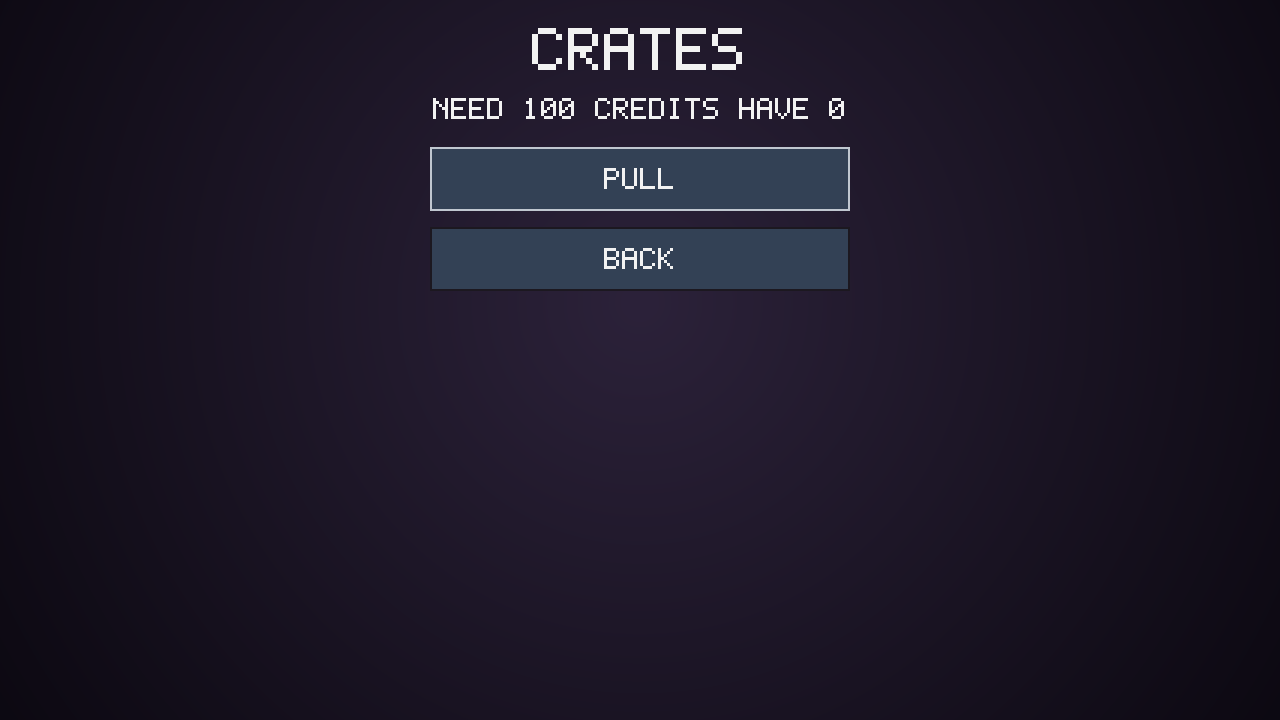
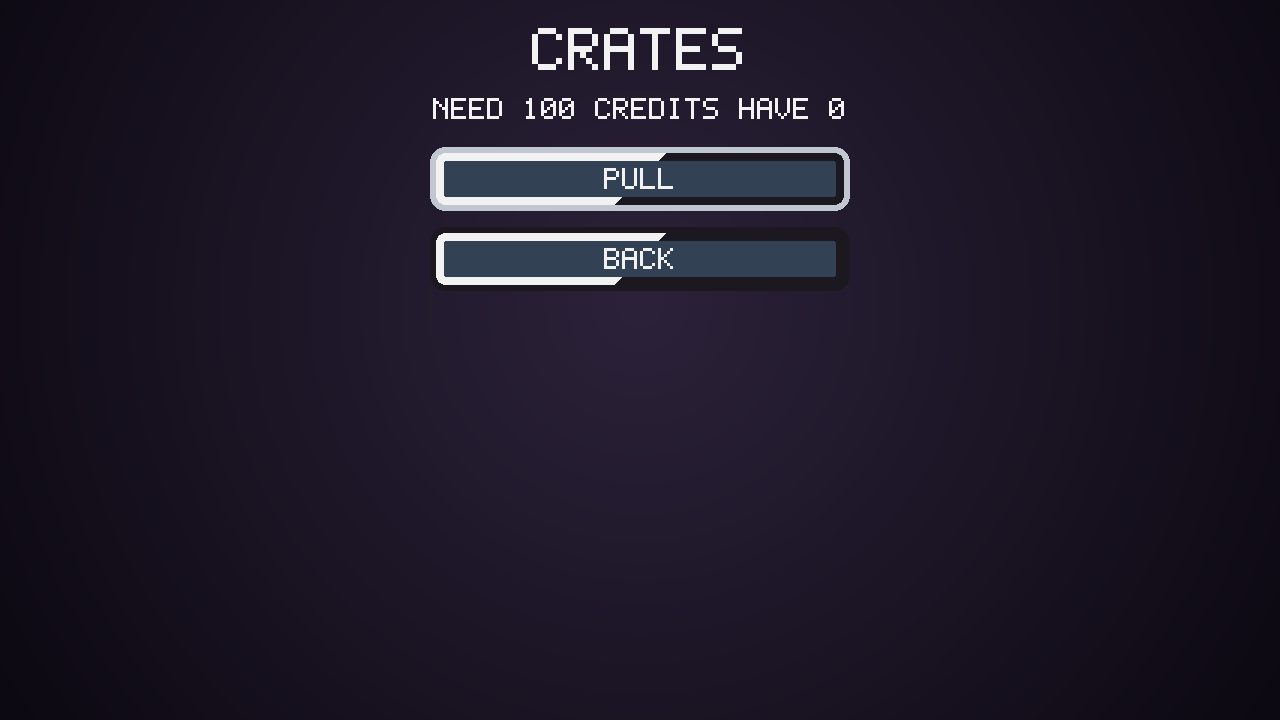
Dim the co-op pause still by the veil and bevel the crate buttons.
The still was restoring the undimmed arena before mixing the veil, so the co-op PNG matched the solo average. The veil now sits on the pause_keep backdrop. Crate pull and back use the pause bevel. A missing shard cost returns before the roll, and the stand-in does not rewrite the save.

Changed region(s): [[0.3125, 0.1833, 0.6875, 0.4278]]

diff --git a/crates/meshes/src/menu_still.rs b/crates/meshes/src/menu_still.rs
@@ -95,6 +95,29 @@ pub fn paint_menu(content: &Content, shot: &MenuShot, width: u32, height: u32) -
     (painted.rgb, painted.hits)
 }
 
+/// Co-op pause still. The live mask stays clear so the match shows through in game.
+/// The still lays `coop_pause_dim` of the veil over the solo backdrop, which is already at `pause_keep`.
+pub fn paint_coop_pause(content: &Content, focus: usize, hero_id: &str, width: u32, height: u32) -> Vec<u8> {
+    let shot = |live: bool| MenuShot::Pause { focus, hero_id: hero_id.to_string(), live };
+    let solo = paint_menu_masked(content, &shot(false), width, height);
+    let coop = paint_menu_masked(content, &shot(true), width, height);
+    let dim = content.ui.layout.coop_pause_dim.clamp(0.0, 1.0);
+    let veil = palette(content, &content.ui.colors.veil);
+    let mut rgb = Vec::with_capacity(coop.rgb.len());
+    for (index, cover) in coop.alpha.iter().copied().enumerate() {
+        if cover == 0 {
+            for channel in 0..3 {
+                let stored = solo.rgb[index * 3 + channel] as f32;
+                let mixed = stored * (1.0 - dim) + veil[channel] as f32 * dim;
+                rgb.push(mixed.round().clamp(0.0, 255.0) as u8);
+            }
+        } else {
+            rgb.extend_from_slice(&coop.rgb[index * 3..index * 3 + 3]);
+        }
+    }
+    rgb
+}
+
 /// RGB plus a real coverage mask. Co-op pause leaves the backdrop at alpha 0.
 pub fn paint_menu_masked(content: &Content, shot: &MenuShot, width: u32, height: u32) -> MenuPaint {
     let frame = Frame::new(content, width.max(8), height.max(8));
@@ -372,20 +395,26 @@ fn paint_crates(rgb: &mut [u8], content: &Content, frame: Frame, focus: usize, r
     let mut hits = Vec::new();
     let mut index = 0;
     if can_pull {
-        let hit = button(rgb, content, frame, y, &ui.copy.crates_pull, focus == index, None);
+        let hit = crate_button(rgb, content, frame, y, &ui.copy.crates_pull, focus == index);
         y = hit.y + hit.h + frame.px(ui.layout.row_gap);
         hits.push(Hit { id: "pull".into(), ..hit });
         index += 1;
     }
     if rarity.is_some() {
-        let hit = button(rgb, content, frame, y, &ui.copy.crates_open, focus == index, None);
+        let hit = crate_button(rgb, content, frame, y, &ui.copy.crates_open, focus == index);
         y = hit.y + hit.h + frame.px(ui.layout.row_gap);
         hits.push(Hit { id: "open".into(), ..hit });
         index += 1;
     }
     let _ = index;
-    hits.push(Hit { id: "back".into(), ..button(rgb, content, frame, y, &ui.copy.back, focus == hits.len(), None) });
+    hits.push(Hit { id: "back".into(), ..crate_button(rgb, content, frame, y, &ui.copy.back, focus == hits.len()) });
     hits
+}
+
+fn crate_button(rgb: &mut [u8], content: &Content, frame: Frame, y: i32, label: &str, focused: bool) -> Hit {
+    let edge = if focused { accent(content, None) } else { palette(content, &content.ui.colors.dim) };
+    let x = (frame.width as i32 - frame.px(content.ui.layout.button_width)) / 2;
+    pause_button(rgb, content, frame, x, y, label, edge)
 }
 
 fn paint_click(rgb: &mut [u8], content: &Content, frame: Frame) -> Vec<Hit> {
@@ -1262,6 +1291,83 @@ mod tests {
             720,
         );
         assert_ne!(failed, generic, "a failed pull shows its reason");
+    }
+
+    #[test]
+    fn coop_pause_is_darker_than_solo_by_the_configured_dim() {
+        let content = Content::embedded();
+        let hero = content.hero.id.clone();
+        let width = 1280u32;
+        let height = 720u32;
+        let (solo, _) = paint_menu(&content, &MenuShot::Pause { focus: 0, hero_id: hero.clone(), live: false }, width, height);
+        let coop = paint_coop_pause(&content, 0, &hero, width, height);
+        let masked = paint_menu_masked(&content, &MenuShot::Pause { focus: 0, hero_id: hero, live: true }, width, height);
+        let keep = content.ui.layout.pause_keep as f64;
+        let dim = content.ui.layout.coop_pause_dim as f64;
+        let veil = bytes(&content, &content.ui.colors.veil);
+        let veil_luma = (veil[0] as f64 + veil[1] as f64 + veil[2] as f64) / 3.0;
+        let mut solo_sum = 0.0;
+        let mut coop_sum = 0.0;
+        let mut count = 0.0;
+        for y in 0..height as i32 {
+            for x in 0..width as i32 {
+                if alpha_at(&masked.alpha, width, x, y) != 0 {
+                    continue;
+                }
+                let s = sample(&solo, width, x, y);
+                let c = sample(&coop, width, x, y);
+                solo_sum += (s[0] as f64 + s[1] as f64 + s[2] as f64) / 3.0;
+                coop_sum += (c[0] as f64 + c[1] as f64 + c[2] as f64) / 3.0;
+                count += 1.0;
+            }
+        }
+        assert!(count > 1000.0, "the co-op backdrop has no clear pixels");
+        let solo_mean = solo_sum / count;
+        let coop_mean = coop_sum / count;
+        // pause_keep and coop_pause_dim set how far the solo still must sit above the veil.
+        // A near-black pair makes (solo - coop) and (solo - veil) * dim both ~0, so this floor fails first.
+        let floor = veil_luma + 255.0 * keep * dim * 0.2;
+        let separation = solo_mean - veil_luma;
+        assert!(
+            separation > floor - veil_luma,
+            "solo backdrop {solo_mean:.1} is too close to the veil {veil_luma:.1} to prove the dim (need {floor:.1})"
+        );
+        let ratio = (solo_mean - coop_mean) / separation;
+        assert!(
+            (ratio - dim).abs() < 0.02,
+            "co-op drop {ratio:.3} is not coop_pause_dim {dim:.3} (solo {solo_mean:.1}, coop {coop_mean:.1})"
+        );
+        assert!(coop_mean < solo_mean, "co-op backdrop {coop_mean:.1} is not darker than solo {solo_mean:.1}");
+    }
+
+    #[test]
+    fn crate_pull_and_back_use_the_pause_bevel() {
+        let content = Content::embedded();
+        let (rgb, hits) = paint_menu(
+            &content,
+            &MenuShot::Crates {
+                focus: 0,
+                rarity: None,
+                failed: true,
+                can_pull: true,
+                reason: "NEED 100 CREDITS HAVE 0".into(),
+            },
+            1280,
+            720,
+        );
+        let pull = hits.iter().find(|hit| hit.id == "pull").unwrap();
+        let back = hits.iter().find(|hit| hit.id == "back").unwrap();
+        let scale = 720.0 / content.ui.layout.fit_height;
+        let inset = (content.ui.layout.pause_outline_px * scale).round() as i32 + 1;
+        let light = bytes(&content, &content.ui.colors.bevel_light);
+        let focus = bytes(&content, &content.ui.colors.focus_before_hero);
+        let dim = bytes(&content, &content.ui.colors.dim);
+        assert_ne!(sample(&rgb, 1280, pull.x, pull.y), focus, "pull corner is still a square");
+        assert_eq!(sample(&rgb, 1280, pull.x + pull.w / 2, pull.y + 1), focus, "pull outline is the focus key");
+        assert_eq!(sample(&rgb, 1280, pull.x + pull.w / 2, pull.y + inset), light, "pull bevel is the lit key");
+        assert_ne!(sample(&rgb, 1280, back.x, back.y), dim, "back corner is still a square");
+        assert_eq!(sample(&rgb, 1280, back.x + back.w / 2, back.y + 1), dim, "back outline is the dim key");
+        assert_eq!(sample(&rgb, 1280, back.x + back.w / 2, back.y + inset), light, "back bevel is the lit key");
     }
 
     fn bytes(content: &Content, key: &str) -> [u8; 3] {

diff --git a/crates/backend/src/lib.rs b/crates/backend/src/lib.rs
@@ -283,13 +283,21 @@ impl Account {
     }
 
     fn roll(&mut self, content: &Content, banner: &str, spent: f32) -> Result<Pull, PullError> {
-        let mut pity = self.begin_banner(content, banner);
-        let pity_legendary_before = pity.since_legendary;
-        let pity_epic_before = pity.since_epic;
-        let rarity = roll_rarity(&mut pity, &mut self.rng, content);
-        let fakeout = roll_fakeout(&mut self.rng, content, &rarity);
         let max_rank = content.duplicate.max_rank;
         let powered = self.rank < max_rank;
+        if !powered {
+            for tier in TIERS {
+                if content.cosmetics.shards_for(tier).is_err() {
+                    return Err(PullError::Shards);
+                }
+            }
+        }
+        let mut rng = self.rng.clone();
+        let mut pity = self.pity_for(content, banner);
+        let pity_legendary_before = pity.since_legendary;
+        let pity_epic_before = pity.since_epic;
+        let rarity = roll_rarity(&mut pity, &mut rng, content);
+        let fakeout = roll_fakeout(&mut rng, content, &rarity);
         let shards = if powered {
             0
         } else {
@@ -298,6 +306,8 @@ impl Account {
                 Err(_) => return Err(PullError::Shards),
             }
         };
+        self.rng = rng;
+        self.active_banner = Some(banner.to_string());
         self.pity.insert(banner.to_string(), pity.clone());
         if powered {
             self.rank += 1;
@@ -327,18 +337,16 @@ impl Account {
         Ok(pull)
     }
 
-    /// When pity carries, the banner being pulled inherits the counter from the banner just left.
-    fn begin_banner(&mut self, content: &Content, banner: &str) -> Pity {
+    /// Starting pity for this pull. Carried counters are copied here and written back only if the roll lands.
+    fn pity_for(&self, content: &Content, banner: &str) -> Pity {
         if content.banners.pity.carries_between_banners {
-            if let Some(prev) = self.active_banner.clone() {
+            if let Some(prev) = &self.active_banner {
                 if prev != banner {
-                    let carried = self.pity.get(&prev).cloned().unwrap_or_default();
-                    self.pity.insert(banner.to_string(), carried);
+                    return self.pity.get(prev).cloned().unwrap_or_default();
                 }
             }
         }
-        self.active_banner = Some(banner.to_string());
-        self.pity.entry(banner.to_string()).or_default().clone()
+        self.pity.get(banner).cloned().unwrap_or_default()
     }
 }
 
@@ -751,6 +759,25 @@ mod tests {
             assert!(!text.contains("gemini-backend"), "{rel} depends on gemini-backend");
             assert!(!text.contains("crates/backend") && !text.contains("../backend"), "{rel} paths at backend");
         }
+    }
+
+    #[test]
+    fn a_missing_shard_cost_does_not_move_pity_or_the_rng() {
+        let mut content = Content::embedded();
+        content.cosmetics.forget_shard_row("legendary").unwrap();
+        let mut account = Account::from_seed(7);
+        account.rank = content.duplicate.max_rank;
+        account.credits = content.banners.cost.single as f32 * 3.0;
+        account.pity.insert("featured".into(), Pity { since_legendary: 40, since_epic: 9 });
+        account.active_banner = Some("featured".into());
+        let before = account.to_bytes().unwrap();
+        let err = account.pull(&content, "standard").unwrap_err();
+        assert!(matches!(err, PullError::Shards), "{err}");
+        assert_eq!(account.to_bytes().unwrap(), before, "a shard fault must not save a new pity or rng state");
+        assert_eq!(account.since_legendary("featured"), 40);
+        assert_eq!(account.since_legendary("standard"), 0, "pity must not carry onto the banner");
+        assert!(account.audit.is_empty());
+        assert_eq!(account.credits(), content.banners.cost.single as f32 * 3.0);
     }
 
     #[test]

diff --git a/crates/meshes/src/bin/menushot.rs b/crates/meshes/src/bin/menushot.rs
@@ -9,7 +9,7 @@ use std::fs;
 use std::io::Write;
 use std::process::{Command, Stdio};
 
-use gemini_meshes::{paint_menu, paint_menu_masked, raster_hero_portrait, MenuShot, PaintPrefs};
+use gemini_meshes::{paint_coop_pause, paint_menu, raster_hero_portrait, MenuShot, PaintPrefs};
 use gemini_sim::content::Content;
 
 fn main() {
@@ -94,45 +94,13 @@ fn main() {
     }
 }
 
-/// Co-op pause leaves the live frame clear. The still bakes the veil the client draws over it.
+/// Co-op pause leaves the live frame clear. The still lays the veil over the dimmed solo backdrop.
 fn write_shot(content: &gemini_sim::content::Content, shot: &MenuShot, width: u32, height: u32, path: &str) {
     let rgb = match shot {
-        MenuShot::Pause { live: true, focus, hero_id } => coop_backdrop(content, *focus, hero_id, width, height),
+        MenuShot::Pause { live: true, focus, hero_id } => paint_coop_pause(content, *focus, hero_id, width, height),
         _ => paint_menu(content, shot, width, height).0,
     };
     write_png(path, &rgb, width, height);
-}
-
-fn coop_backdrop(content: &gemini_sim::content::Content, focus: usize, hero_id: &str, width: u32, height: u32) -> Vec<u8> {
-    let solo = paint_menu_masked(
-        content,
-        &MenuShot::Pause { focus, hero_id: hero_id.to_string(), live: false },
-        width,
-        height,
-    );
-    let coop = paint_menu_masked(
-        content,
-        &MenuShot::Pause { focus, hero_id: hero_id.to_string(), live: true },
-        width,
-        height,
-    );
-    let keep = content.ui.layout.pause_keep.max(1e-3);
-    let dim = content.ui.layout.coop_pause_dim.clamp(0.0, 1.0);
-    let veil = content.palette.key(&content.ui.colors.veil);
-    let mut rgb = Vec::with_capacity(coop.rgb.len());
-    for (index, cover) in coop.alpha.iter().copied().enumerate() {
-        if cover == 0 {
-            for channel in 0..3 {
-                let stored = solo.rgb[index * 3 + channel] as f32;
-                let arena = (stored / keep).round().clamp(0.0, 255.0);
-                let mixed = arena * (1.0 - dim) + veil[channel] * 255.0 * dim;
-                rgb.push(mixed.round().clamp(0.0, 255.0) as u8);
-            }
-        } else {
-            rgb.extend_from_slice(&coop.rgb[index * 3..index * 3 + 3]);
-        }
-    }
-    rgb
 }
 
 fn write_png(path: &str, rgb: &[u8], width: u32, height: u32) {

diff --git a/crates/server/src/dev_host.rs b/crates/server/src/dev_host.rs
@@ -73,11 +73,16 @@ pub fn exchange(request: &[u8]) -> Result<Vec<u8>, ExchangeError> {
 }
 
 pub fn exchange_at(path: &Path, request: &[u8]) -> Result<Vec<u8>, ExchangeError> {
+    exchange_with(path, &Content::embedded(), request)
+}
+
+fn exchange_with(path: &Path, content: &Content, request: &[u8]) -> Result<Vec<u8>, ExchangeError> {
     let packet = Packet::decode(request).map_err(|err| ExchangeError::Failed(format!("crate pull request is not a proto packet: {err}")))?;
-    let content = Content::embedded();
-    let mut account = load_or_create(path, &content)?;
-    let reply = answer(&mut account, &content, &packet)?;
-    write_account(path, &account)?;
+    let mut account = load_or_create(path, content)?;
+    let reply = answer(&mut account, content, &packet)?;
+    if !matches!(&reply, Packet::CratePullReply(body) if matches!(body.fault, Some(CratePullFault::Shards))) {
+        write_account(path, &account)?;
+    }
     reply.encode().map_err(|err| ExchangeError::Failed(format!("could not encode the crate pull reply: {err}")))
 }
 
@@ -287,6 +292,25 @@ mod tests {
         assert!(reply.rarity.is_none());
         let still = Account::from_bytes(&fs::read(&path).unwrap()).unwrap();
         assert!((still.credits() - have).abs() < 1e-3);
+        let _ = fs::remove_dir_all(&dir);
+    }
+
+    #[test]
+    fn a_shards_fault_does_not_rewrite_the_save() {
+        let dir = scratch("shards");
+        let path = dir.join("account.bin");
+        let mut content = Content::embedded();
+        content.cosmetics.forget_shard_row("common").unwrap();
+        let mut account = Account::open(&content);
+        account.rank = content.duplicate.max_rank;
+        write_account(&path, &account).unwrap();
+        let before = fs::read(&path).unwrap();
+        let banner = content.banners.id.clone();
+        let reply = Packet::decode(&exchange_with(&path, &content, &request(&banner)).unwrap()).unwrap();
+        let Packet::CratePullReply(reply) = reply else { panic!("reply") };
+        assert!(matches!(reply.fault, Some(CratePullFault::Shards)), "{reply:?}");
+        assert!(reply.rarity.is_none());
+        assert_eq!(fs::read(&path).unwrap(), before, "a shard fault must leave the save where it was");
         let _ = fs::remove_dir_all(&dir);
     }
 }

diff --git a/crates/sim/src/content.rs b/crates/sim/src/content.rs
@@ -923,17 +923,39 @@ pub struct ShardCost {
     pub rare: u32,
     pub epic: u32,
     pub legendary: u32,
+    missing: u8,
 }
 
 impl Cosmetics {
+    /// Drops one tier's shard row. A later max-rank pull faults before the roll.
+    pub fn forget_shard_row(&mut self, rarity: &str) -> Result<(), String> {
+        let bit = shard_bit(rarity)?;
+        self.shard_cost.missing |= bit;
+        Ok(())
+    }
+
     pub fn shards_for(&self, rarity: &str) -> Result<u32, String> {
-        match rarity {
-            "common" => Ok(self.shard_cost.common),
-            "rare" => Ok(self.shard_cost.rare),
-            "epic" => Ok(self.shard_cost.epic),
-            "legendary" => Ok(self.shard_cost.legendary),
-            other => Err(format!("unknown rarity \"{other}\"")),
+        let (bit, cost) = match rarity {
+            "common" => (1u8, self.shard_cost.common),
+            "rare" => (2, self.shard_cost.rare),
+            "epic" => (4, self.shard_cost.epic),
+            "legendary" => (8, self.shard_cost.legendary),
+            other => return Err(format!("unknown rarity \"{other}\"")),
+        };
+        if self.shard_cost.missing & bit != 0 {
+            return Err(format!("cosmetics.toml shard_cost is missing {rarity}"));
         }
+        Ok(cost)
+    }
+}
+
+fn shard_bit(rarity: &str) -> Result<u8, String> {
+    match rarity {
+        "common" => Ok(1),
+        "rare" => Ok(2),
+        "epic" => Ok(4),
+        "legendary" => Ok(8),
+        other => Err(format!("unknown rarity \"{other}\"")),
     }
 }
 
@@ -2718,6 +2740,7 @@ fn load_cosmetics(text: &str) -> Result<Cosmetics, String> {
             rare: shard("rare")?,
             epic: shard("epic")?,
             legendary: shard("legendary")?,
+            missing: 0,
         },
     })
 }

diff --git a/crates/meshes/src/lib.rs b/crates/meshes/src/lib.rs
@@ -18,7 +18,7 @@ pub use cast::{
     CastMesh, PaintCam, Placement,
 };
 
-pub use menu_still::{paint_menu, paint_menu_masked, raster_hero_portrait, Hit, MenuPaint, MenuShot, PaintPrefs};
+pub use menu_still::{paint_coop_pause, paint_menu, paint_menu_masked, raster_hero_portrait, Hit, MenuPaint, MenuShot, PaintPrefs};
 
 pub use arena::{cover_visual, pieces as arena_pieces, scenery_fingerprint, ArenaPiece};
 pub use away_still::{paint_away, AwayShot};
